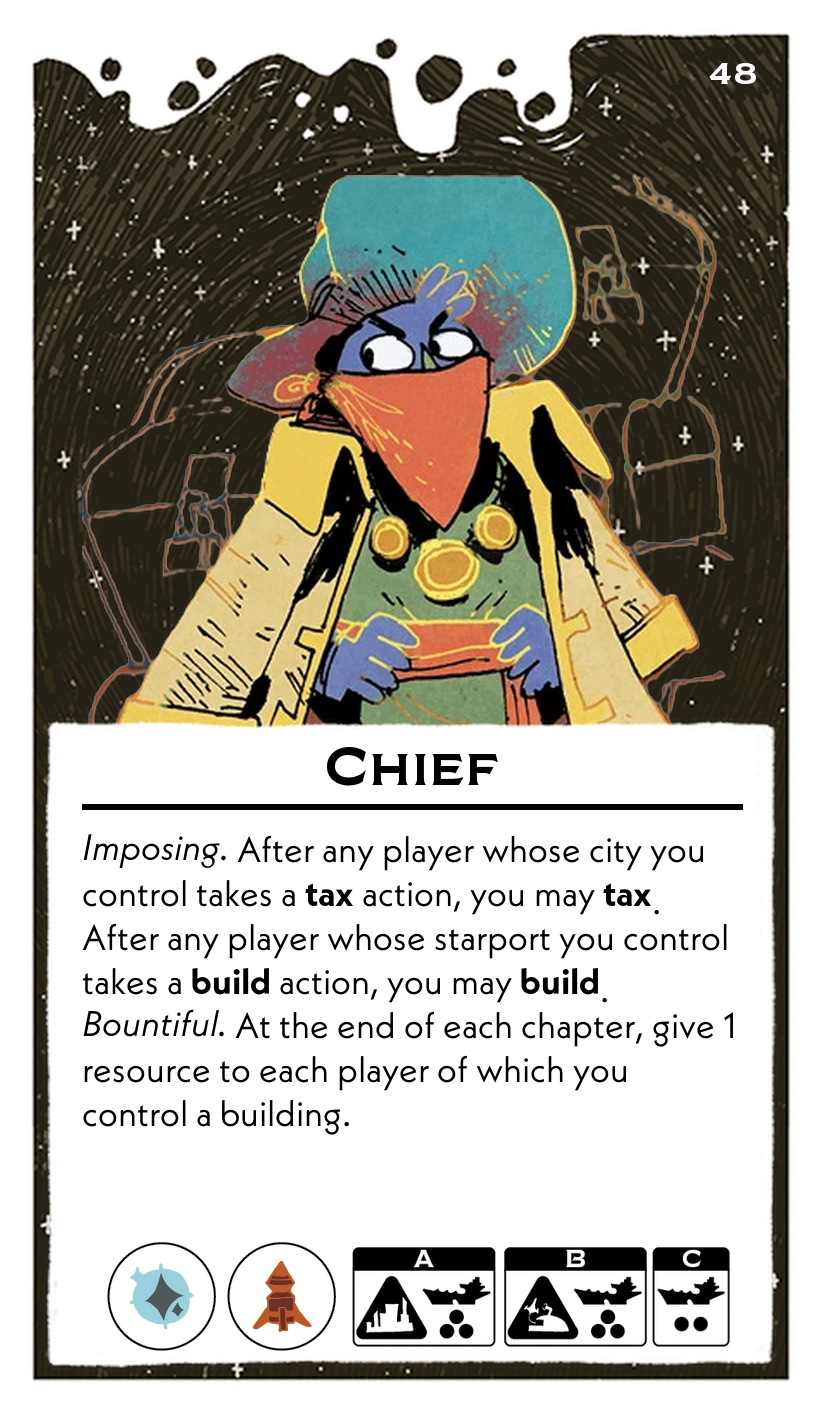
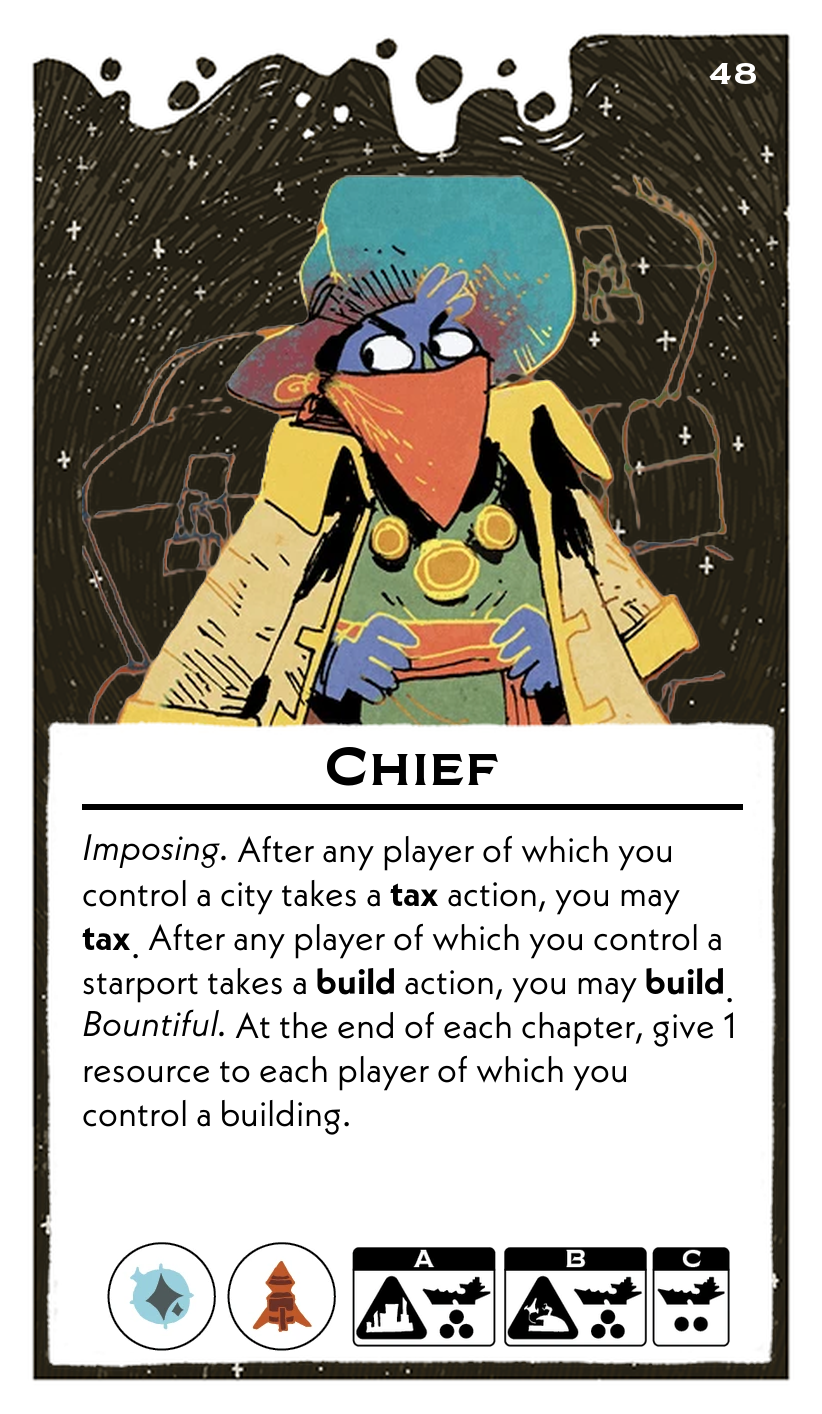
chief

Changed region(s): [[0.0912, 0.5912, 0.882, 0.7157]]

diff --git a/scripts/leadersFormatted.py b/scripts/leadersFormatted.py
@@ -742,7 +742,7 @@ leaders = [
     {
         "name": "Chief",
         "abilities": (
-            "*Imposing.* After any player whose city you control takes a **tax** action, you may **tax**. After any player whose starport you control takes a **build** action, you may **build**.\n"
+            "*Imposing.* After any player of which you control a city takes a **tax** action, you may **tax**. After any player of which you control a starport takes a **build** action, you may **build**.\n"
             "*Bountiful.* At the end of each chapter, give 1 resource to each player of which you control a building."
         ),
         "resources": ["Relic", "Weapon"],
